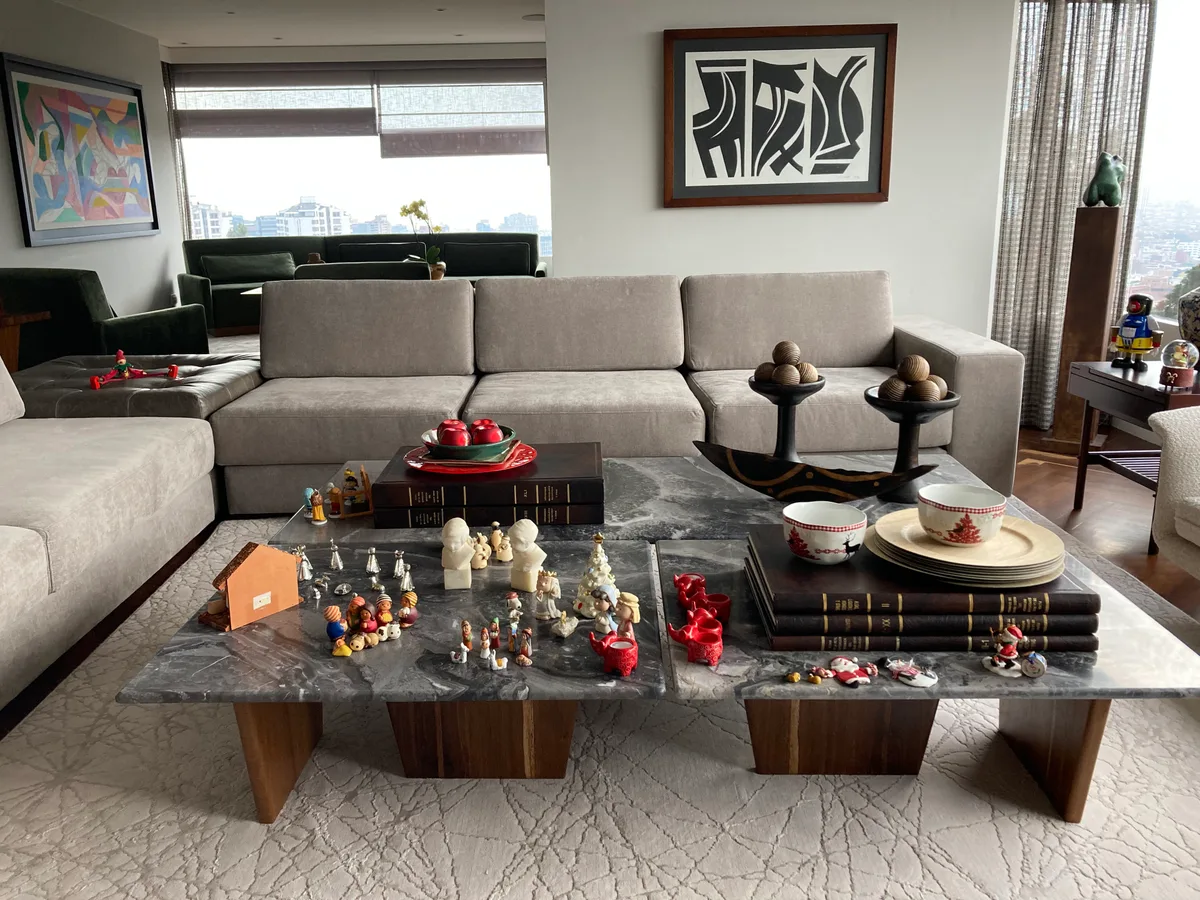
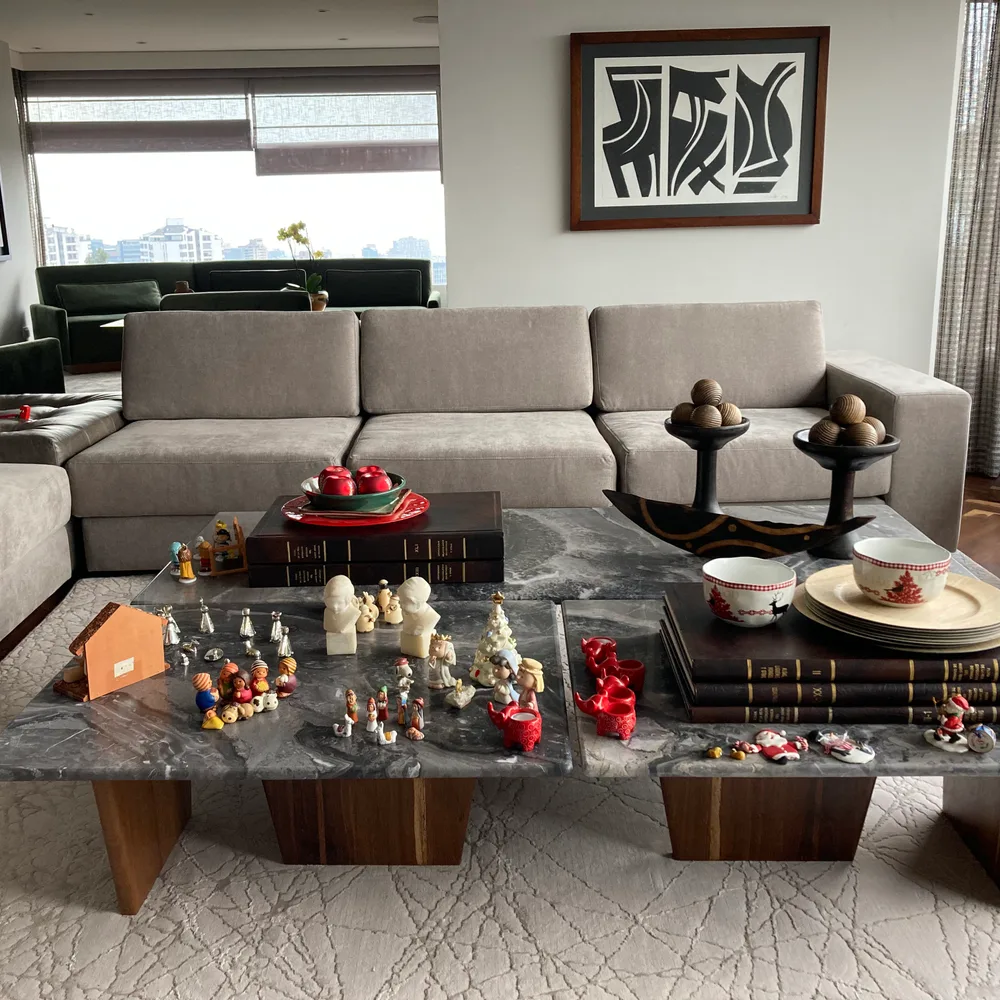
Ajustar portafolio: reordenar y depurar elementos en Comedores y Autor, y redimensionar imagen comedores_new_8.webp a 1:1

diff --git a/index.html b/index.html
@@ -1853,7 +1853,7 @@
         <div class="category-card reveal delay-1" data-category="comedores">
           <img src="assets/portfolio/comedores_design_face.webp" alt="Colección de Comedores" loading="lazy">
           <div class="category-card-overlay">
-            <span class="category-card-tag">26 Obras</span>
+            <span class="category-card-tag">25 Obras</span>
             <h3>Salas y Comedores</h3>
             <p>Diseño escultórico, acabados al aceite natural y precisión de vetas en mesas y comedores.</p>
             <span class="explore-btn">Explorar Álbum <span style="margin-left: 6px;">→</span></span>
@@ -1897,7 +1897,7 @@
         <div class="category-card reveal delay-2" data-category="autor">
           <img src="assets/portfolio/autor_barra.webp" alt="Colección de Piezas de Autor" loading="lazy">
           <div class="category-card-overlay">
-            <span class="category-card-tag">31 Obras</span>
+            <span class="category-card-tag">30 Obras</span>
             <h3>Piezas de Autor</h3>
             <p>Barras curvas alistonadas, poltronas de colección y mesas talladas a mano de diseño único.</p>
             <span class="explore-btn">Explorar Álbum <span style="margin-left: 6px;">→</span></span>
@@ -2265,12 +2265,12 @@
     const galleryData = {
       "comedores": [
             {
-                  "name": "Comedor Oval Moderno",
-                  "desc": "Mesa de diseño ovalado con sillas de tapicería verde oliva que combinan la calidez de la madera con la ergonomía contemporánea.",
-                  "wood": "Flor Morado",
-                  "dims": "220 x 110 x 75 cm",
-                  "tolerance": "±0.2 mm",
-                  "img": "assets/portfolio/comedores_oval.webp"
+                  "name": "Mesa Auxiliar de Teca Maciza",
+                  "desc": "Diseño elegante de comedor o sala, fabricado con acabados premium y estabilidad estructural.",
+                  "wood": "Roble Macizo",
+                  "dims": "A la medida",
+                  "tolerance": "±0.3 mm",
+                  "img": "assets/portfolio/comedores_new_24.webp"
             },
             {
                   "name": "Comedor Blanco y Madera",
@@ -2311,14 +2311,6 @@
                   "dims": "A la medida",
                   "tolerance": "±0.3 mm",
                   "img": "assets/portfolio/comedores_new_5.webp"
-            },
-            {
-                  "name": "Mesa Auxiliar de Sala Contemporánea",
-                  "desc": "Diseño elegante de comedor o sala, fabricado con acabados premium y estabilidad estructural.",
-                  "wood": "Roble Macizo",
-                  "dims": "A la medida",
-                  "tolerance": "±0.3 mm",
-                  "img": "assets/portfolio/comedores_new_7.webp"
             },
             {
                   "name": "Credenza de Comedor con Chapa Seleccionada",
@@ -2441,14 +2433,6 @@
                   "img": "assets/portfolio/comedores_new_23.webp"
             },
             {
-                  "name": "Mesa Auxiliar de Teca Maciza",
-                  "desc": "Diseño elegante de comedor o sala, fabricado con acabados premium y estabilidad estructural.",
-                  "wood": "Roble Macizo",
-                  "dims": "A la medida",
-                  "tolerance": "±0.3 mm",
-                  "img": "assets/portfolio/comedores_new_24.webp"
-            },
-            {
                   "name": "Mesa de Centro Cilíndrica",
                   "desc": "Diseño elegante de comedor o sala, fabricado con acabados premium y estabilidad estructural.",
                   "wood": "Roble Macizo",
@@ -2471,6 +2455,14 @@
                   "dims": "A la medida",
                   "tolerance": "±0.3 mm",
                   "img": "assets/portfolio/comedores_new_29.webp"
+            },
+            {
+                  "name": "Comedor Oval Moderno",
+                  "desc": "Mesa de diseño ovalado con sillas de tapicería verde oliva que combinan la calidez de la madera con la ergonomía contemporánea.",
+                  "wood": "Flor Morado",
+                  "dims": "220 x 110 x 75 cm",
+                  "tolerance": "±0.2 mm",
+                  "img": "assets/portfolio/comedores_oval.webp"
             }
       ],
       "alcobas": [
@@ -2897,6 +2889,14 @@
       ],
       "autor": [
             {
+                  "name": "Consola de Entrada Escultural",
+                  "desc": "Pieza artística de autor con formas exclusivas, uniones artesanales y detalles firmados.",
+                  "wood": "Roble Blanco",
+                  "dims": "A la medida",
+                  "tolerance": "±0.3 mm",
+                  "img": "assets/portfolio/autor_new_1.webp"
+            },
+            {
                   "name": "Barra de Bar Escultórica",
                   "desc": "Barra de bar en isla de forma curva y orgánica recubierta con listones verticales de madera maciza seleccionada uno a uno.",
                   "wood": "Roble y Cubierta de Piedra",
@@ -2959,14 +2959,6 @@
                   "dims": "160 x 260 x 8 cm",
                   "tolerance": "±0.5 mm",
                   "img": "assets/portfolio/autor_door_pivot.webp"
-            },
-            {
-                  "name": "Consola de Entrada Escultural",
-                  "desc": "Pieza artística de autor con formas exclusivas, uniones artesanales y detalles firmados.",
-                  "wood": "Roble Blanco",
-                  "dims": "A la medida",
-                  "tolerance": "±0.3 mm",
-                  "img": "assets/portfolio/autor_new_1.webp"
             },
             {
                   "name": "Mesa de Centro Tallada a Mano",
@@ -3063,14 +3055,6 @@
                   "dims": "A la medida",
                   "tolerance": "±0.3 mm",
                   "img": "assets/portfolio/autor_new_20.webp"
-            },
-            {
-                  "name": "Mesa de Centro en Mármol Negro",
-                  "desc": "Pieza artística de autor con formas exclusivas, uniones artesanales y detalles firmados.",
-                  "wood": "Roble Blanco",
-                  "dims": "A la medida",
-                  "tolerance": "±0.3 mm",
-                  "img": "assets/portfolio/autor_new_21.webp"
             },
             {
                   "name": "Poltrona de Colección Esculpida",